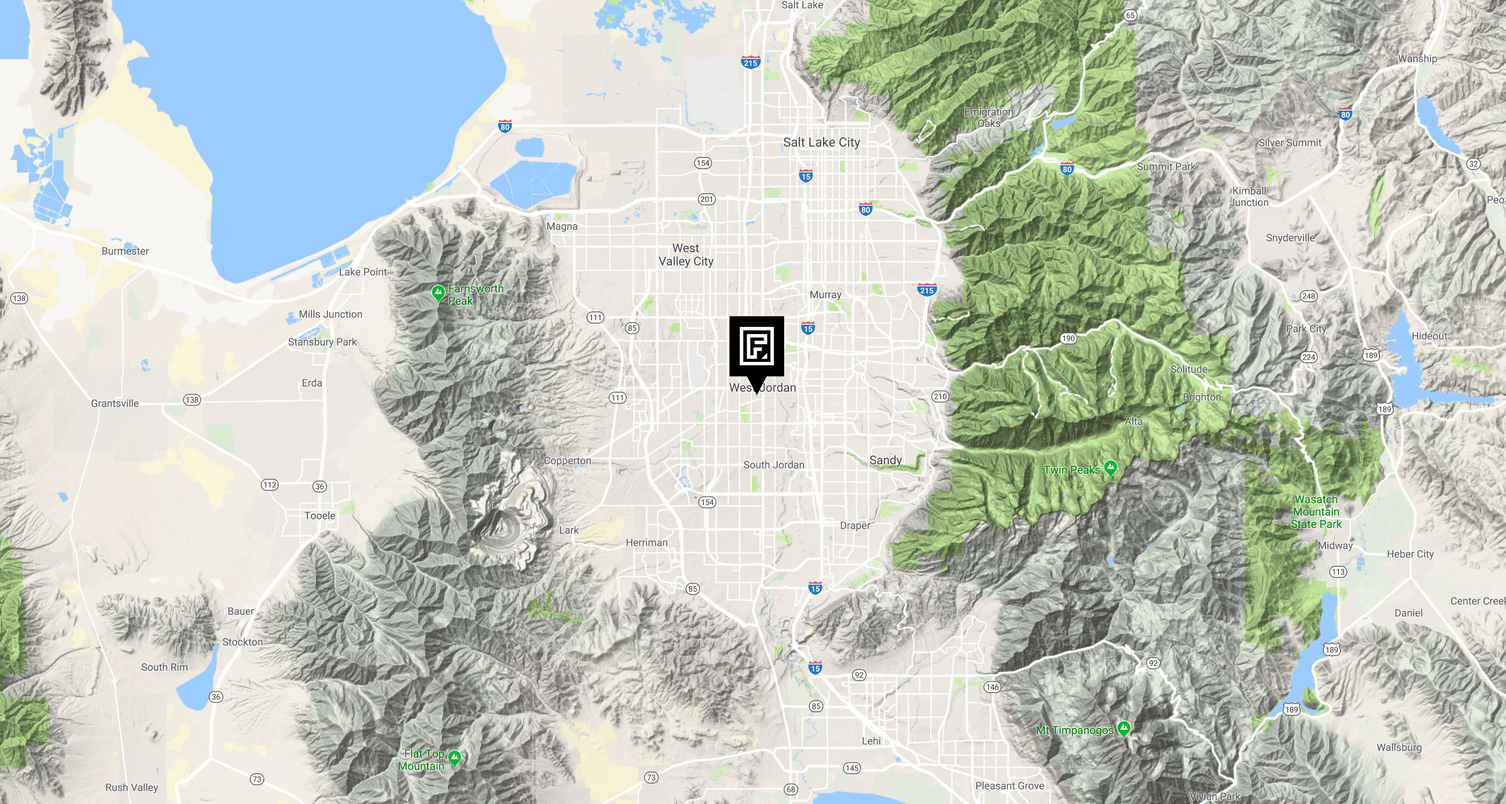
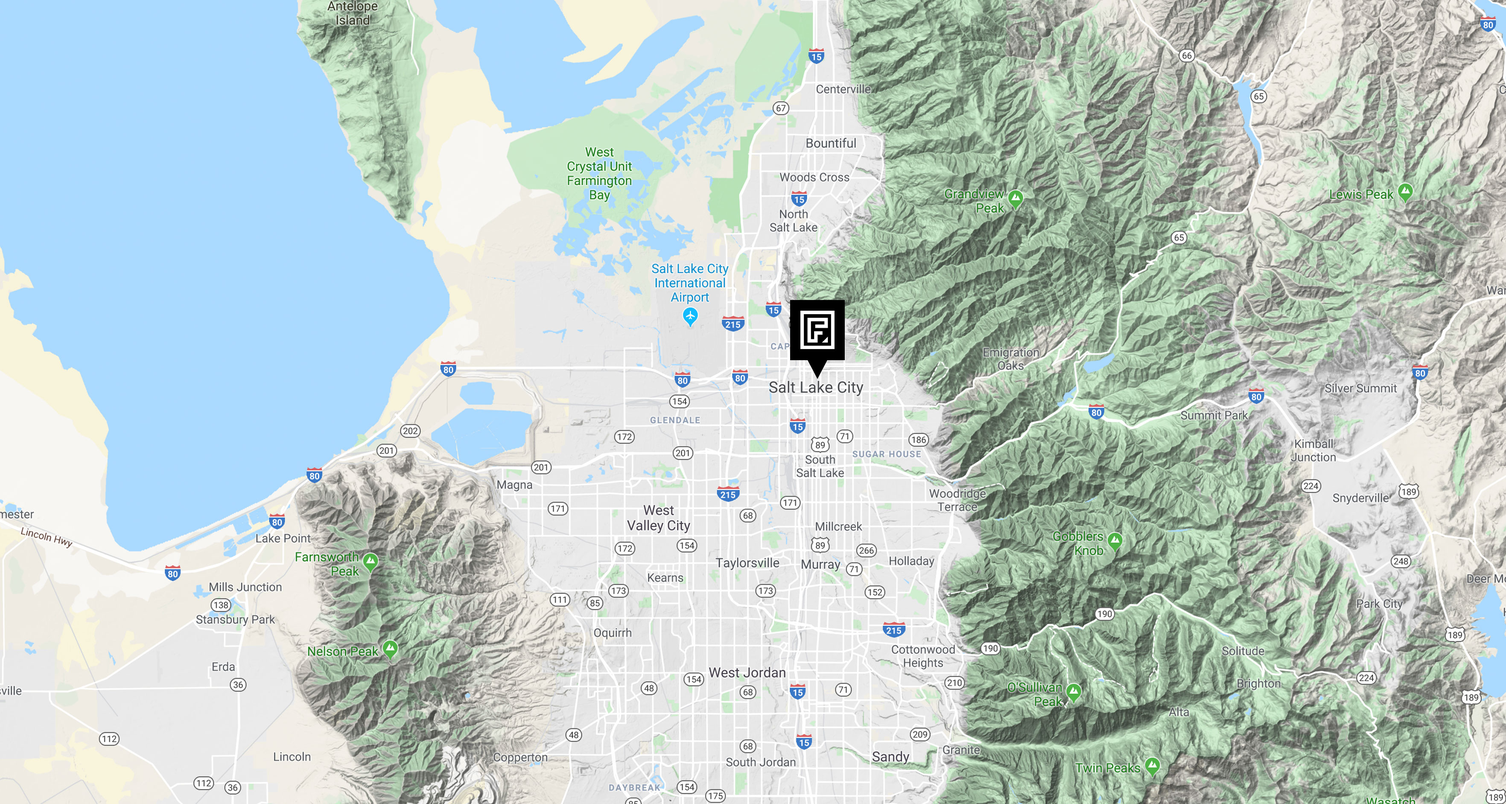
Updated workshops venue and registration pages. Enabled early bird.

diff --git a/workshops/registration.php b/workshops/registration.php
@@ -25,23 +25,23 @@ require($_SERVER['DOCUMENT_ROOT'] . '/includes/header.php');
 			<h2>Pricing</h2>
 			
 			<!-- EARLY BIRD -->
-			<!--
+
 			<div class="prices">
 				<dl class="pricing-types">
 					<dt><div></div></dt>
 					<dd class="early">
 						Early bird pricing
-						<small>25% off through 3 September 2019</small>
+						<small>25% off through 11 September 2020</small>
 					</dd>
 					<dd class="standard">
 						Standard pricing
-						<small>Starting 4 September 2019</small>
+						<small>Starting 12 September 2020</small>
 					</dd>
 				</dl>
 				<dl class="full">
 					<dt><div>Full Workshop Series</div></dt>
-					<dd class="early">$899</dd>
-					<dd class="standard">$1,199</dd>
+					<dd class="early">$1,349</dd>
+					<dd class="standard">$1,799</dd>
 				</dl>
 				<dl>
 					<dt>
@@ -50,8 +50,8 @@ require($_SERVER['DOCUMENT_ROOT'] . '/includes/header.php');
 							<small>10% off per ticket</small>
 						</div>
 					</dt>
-					<dd class="early">$809</dd>
-					<dd class="standard">$1,080</dd>
+					<dd class="early">$1,214</dd>
+					<dd class="standard">$1,619</dd>
 				</dl>
 				<dl>
 					<dt>
@@ -60,8 +60,8 @@ require($_SERVER['DOCUMENT_ROOT'] . '/includes/header.php');
 							<small>15% off per ticket</small>
 						</div>
 					</dt>
-					<dd class="early">$765</dd>
-					<dd class="standard">$1,020</dd>
+					<dd class="early">$1,147</dd>
+					<dd class="standard">$1,529</dd>
 				</dl>
 				<dl>
 					<dt>
@@ -70,11 +70,10 @@ require($_SERVER['DOCUMENT_ROOT'] . '/includes/header.php');
 							<small>20% off per ticket</small>
 						</div>
 					</dt>
-					<dd class="early">$720</dd>
-					<dd class="standard">$960</dd>
+					<dd class="early">$1,079</dd>
+					<dd class="standard">$1,439</dd>
 				</dl>
 			</div>
-			-->
 			
 			<!-- STANDARD -->
 			<!--
@@ -112,46 +111,64 @@ require($_SERVER['DOCUMENT_ROOT'] . '/includes/header.php');
 				</dl>
 			</div>
 			
-			<div style="width:100%; text-align:left;"><iframe src="https://eventbrite.com/tickets-external?eid=54869589419&ref=etckt" frameborder="0" height="788" width="100%" vspace="0" hspace="0" marginheight="5" marginwidth="5" scrolling="auto" allowtransparency="true"></iframe><div style="font-family:Helvetica, Arial; font-size:12px; padding:10px 0 5px; margin:2px; width:100%; text-align:left;" ><a class="powered-by-eb" style="color: #ADB0B6; text-decoration: none;" target="_blank" href="https://www.eventbrite.com/">Powered by Eventbrite</a></div></div>
-			
 			-->
+			
+			
+			
+			
+			
+			<!-- 1088px for early bird, 788px for regualr pricing  -->
+			
+			<div style="width:100%; text-align:left;"><iframe src="https://eventbrite.com/tickets-external?eid=85934090177&ref=etckt" frameborder="0" height="1088" width="100%" vspace="0" hspace="0" marginheight="5" marginwidth="5" scrolling="auto" allowtransparency="true"></iframe><div style="font-family:Helvetica, Arial; font-size:12px; padding:10px 0 5px; margin:2px; width:100%; text-align:left;" ><a class="powered-by-eb" style="color: #ADB0B6; text-decoration: none;" target="_blank" href="https://www.eventbrite.com/">Powered by Eventbrite</a></div></div>
+			
+			
+			
+			
+			
+			<!-- SOLD OUT 
 			
 			<h5 class="soldout">SOLD OUT</h5>
 			
 			<p class="pricing-notes">We're sorry, but the workshops are sold out. We wish there were more seats. We encourage you to join us 
 				for our <a href="/conference">case study conference</a> in May and <a href="/mailinglist">join our 
 				mailing list</a> to be notified when tickets to next year's workshops go on sale.</p>
+				
+			-->
 			
 		</section>
 
 		<section class="accomodations">
 			<h2>Hotel</h2>			
 			
-			<p class="about-accomodations">We have acquired a discounted nightly rate of $129/night + tax for a king bed and $139/night + tax for two queens, at the Staybridge only six minutes from the venue. Book your room online or by calling 801-871-0871 and asking for the “Front Utah” group discount. Free transportation between the hotel and venue will be provided.</p>
+			<p class="about-accomodations">We have acquired a discount of 
+				15% off the nightly rate, conveniently onsite at the venue. 
+				Book your room online or by calling 801.328.2000 and asking 
+				for the “Front Workshop Series” conference discount.</p>
 			<div class="hotel">
 				<div class="hotel-info">
-					<h3>Staybridge, Midvale, Utah</h3>
-					<p>747 Blue Vista Ln, Midvale, UT 84047<p>
-					<p>Reservations: 801-871-0871</p>
+					
+						
+					
+					<h3>Hilton Salt Lake City Center</h3>
+					<p>255 South West Temple, Salt Lake City, Utah 84101<p>
+					<p>Reservations: 801.328.2000</p>
 					<ul>
-						<li>King or double queen beds</li>
-						<li>Complimentary hot breakfast buffet</li>
-						<li>Complimentary hot breakfast buffet</li>
-						<li>All rooms fully equipped kitchens</li>
-						<li>Complimentary guest laundry</li>
-						<li>Fantastic fitness center open 24/7</li>
-						<li>Hot tub, heated pool year-round</li>
-						<li>BBQ grills, fire tables and fire bowls</li>
-						<li>Business Center open 24/7</li>
-						<li>Complimentary high speed wifi</li>
-						<li>Complimentary Shuttle Service</li>
-						<li>Trax Station adjacent to Staybridge</li>
-						<li>Pet friendly</li>
+						<li>Centrally located to downtown</li>
+						<li>Surrounded by dining & shopping</li>
+						<li>Fitness center</li>
+						<li>Indoor pool and whirlpool</li>
+						<li>Spencer's for Steaks and Chops</li>
+						<li>Pet friendly with nearby dog park</li>
+						<li>Avis Rental Cars in lobby</li>
+						<li>Large suites and connecting rooms</li>
+						<li>2 blocks from City Creek Mall</li>
+						<li>2 blocks from Temple Square</li>
+						<li>15-minute walk to hiking trails</li>
 					</ul>
 				</div>
 				<div class="book-hotel">
-					<p>Act quickly to get the conference discount rate of <strong>$129/night</strong> (13% off).</p>
-					<p><a target="_blank" href="https://www.staybridge.com/redirect?path=hd-hotel-room-rates&brandCode=SB&localeCode=en&regionCode=1&hotelCode=SLCMV&_PMID=99801505&GPC=UTA&viewfullsite=true" class="button">Book Now</a></p>
+					<p>Act quickly to get the conference discount rate of <strong>15% off</strong>. Availability is not guaranteed.</p>
+					<p><a target="_blank" href="https://www3.hilton.com/en/hotels/utah/hilton-salt-lake-city-center-SLCCCHH/index.html" class="button">Book Now</a></p>
 				</div>
 			</div>
 			

diff --git a/workshops/venue.php b/workshops/venue.php
@@ -13,18 +13,26 @@ require($_SERVER['DOCUMENT_ROOT'] . '/includes/header.php');
 		</section>
 		<section class="reasons-why">
 			<h2>Venue</h2>
-			<p class="about-reasons-why">The Viridian Event Center is located in heart of the Salt Lake Valley and is just 15 miles from downtown Salt Lake City. Arrive by TRAX light rail via West Jordan City Center Station or by car and take advantage of ample free onsite parking.</p>
-			<p><strong>Viridian Event Center</strong><br />8030 South 1825 West<br />West Jordan, Utah 84088</a></p>
+			<p class="about-reasons-why">Hilton Salt Lake City Center is located 
+				in heart of downtown. It is 7 miles from Salt Lake City International Airport.
+				Arrive by TRAX light rail or by car and take advantage of ample free onsite parking.</p>
+			<p><strong>Hilton Salt Lake City Center</strong><br />255 South West Temple<br />Salt Lake City, Utah 84101</a></p>
 		</section>
 		<section class="photo-collage">
-			<img class="full" src="/images/frontworkshops18/viridian.jpg" alt="">
+			<img class="full" src="/images/hilton_salt_lake_city_center.jpg" alt="">
 		</section>
 		<section class="sports">
-			<h2>LEED certified modern design</h2>
-			<p class="about-reasons-why">Energy saving utilities, environmentally responsible building methods and materials, plus the use of native and locally adaptive landscape plants add up to an outstanding Leadership in Energy and Energy Efficient Design (LEED) building certification. This center has been certified to the LEED Gold Level&mdash;the second highest certification awarded by the LEED organization.</p>
+			<h2>Vibrant downtown SLC hotel amid mountain peaks</h2>
+			<p class="about-reasons-why">Towering over Temple Street is the 
+				18-floor Hilton Salt Lake City Center. From the central downtown 
+				location, walk to the awe-inspiring Salt Lake Temple, the landmark 
+				Capitol and Eccles Theater. Hike City Creek Canyon Historic District 
+				and indulge in downtown’s trendy food-and-drink scenes. Easy access to 
+				the TRAX train system makes exploring the city affordable and convenient. 
+				Hilton Salt Lake City Center offers the latest in hotel technology with Digital Key.</p>
 		</section>
 		<section class="photo-collage">
-			<a href="https://www.google.com/maps/place/Viridian+Event+Center/@40.6051186,-111.9456086,17z/data=!3m1!4b1!4m5!3m4!1s0x875288d742501aad:0xcd2d4cf9749b971b!8m2!3d40.6051186!4d-111.9434199"><img class="full" src="/images/frontworkshops18/map.jpg" alt=""></a>
+			<a href="https://g.page/Hilton-Salt-Lake-City-Center?share"><img class="full" src="/images/frontworkshops18/map.jpg" alt=""></a>
 		</section>
 		<section class="join-us">
 			<h2>Join us at the Front!</h2>

diff --git a/index.php b/index.php
@@ -22,16 +22,16 @@ require('includes/header.php');
 				<div href="https://www.youtube.com/watch?v=8f5QpAa1nh8" class="thumnail video-thumbnail recap-video">
 					<img src="images/conf-scene001.jpg" alt="" style="width: 413px;">
 				</div>
-				<p class="description">A 2 day, in-depth series of from-the-trenches case studies by innovative user experience designers and product managers.</p>
+				<p class="description">A 3 day, in-depth series of from-the-trenches case studies by innovative user experience designers and product managers.</p>
 				<p><a href="/conference" class="button">Learn More</a></p>
 			</li>
 			<li>
 				<h3>Workshop Series</h3>
-				<p class="date-location">Salt Lake City, 7-8 November 2019</p>
+				<p class="date-location">Salt Lake City, 11-13 November 2020</p>
 				<div href="https://www.youtube.com/watch?v=AU8QI7wPzoc" class="thumnail video-thumbnail recap-video">
 					<img src="images/conf-scene002.jpg" alt="" style="width: 413px;">
 				</div>
-				<p class="description">A 2 day, hands-on workshop series to learn to create amazing products and work like the teams you hear from at Front.</p>
+				<p class="description">A 3 day, hands-on workshop series to learn to create amazing products and work like the teams you hear from at Front.</p>
 				<p><a href="/workshops" class="button">Learn More</a></p>
 			</li>
 			<li>

diff --git a/workshops/index.php b/workshops/index.php
@@ -24,15 +24,13 @@ require($_SERVER['DOCUMENT_ROOT'] . '/includes/header.php');
 			<h1>UX &amp; Product Management Workshop Series</h1>
 			<p>
 				<ul>
-					<li>2 days • 4 tracks • 20 courses</li>
-					<li>200+ product designers and managers</li>
+					<li>3 days • 4 tracks • 20 courses</li>
+					<li>225+ product designers and managers</li>
 				</ul>
 			</p>
-			<!-- <p class="date-location">7-8 November 2019 • Salt Lake City, Utah</p> -->
-			<p class="date-location">While the 2019 Workshop Series is over, we're excited to provide on-demand recordings of some of our favorite workshops.</p>
+			<p class="date-location">11-13 November 2020 • Salt Lake City, Utah</p>
 			<a href="http://www.pendo.io"><img id="broughtoyouby" src="/images/frontpc18/broughttoyouby_pendo.png" /></a>
-			<!-- <p><a href="/workshops/registration" class="button">Register</a></p> -->
-			 <p><a href="/ondemand" class="button">Stream workshops now</a></p>
+			<p><a href="/workshops/registration" class="button">Register</a></p>
 		</section>
 		<section class="training-courses">
 				<h2>2 intense days of learning and practice</h2>
